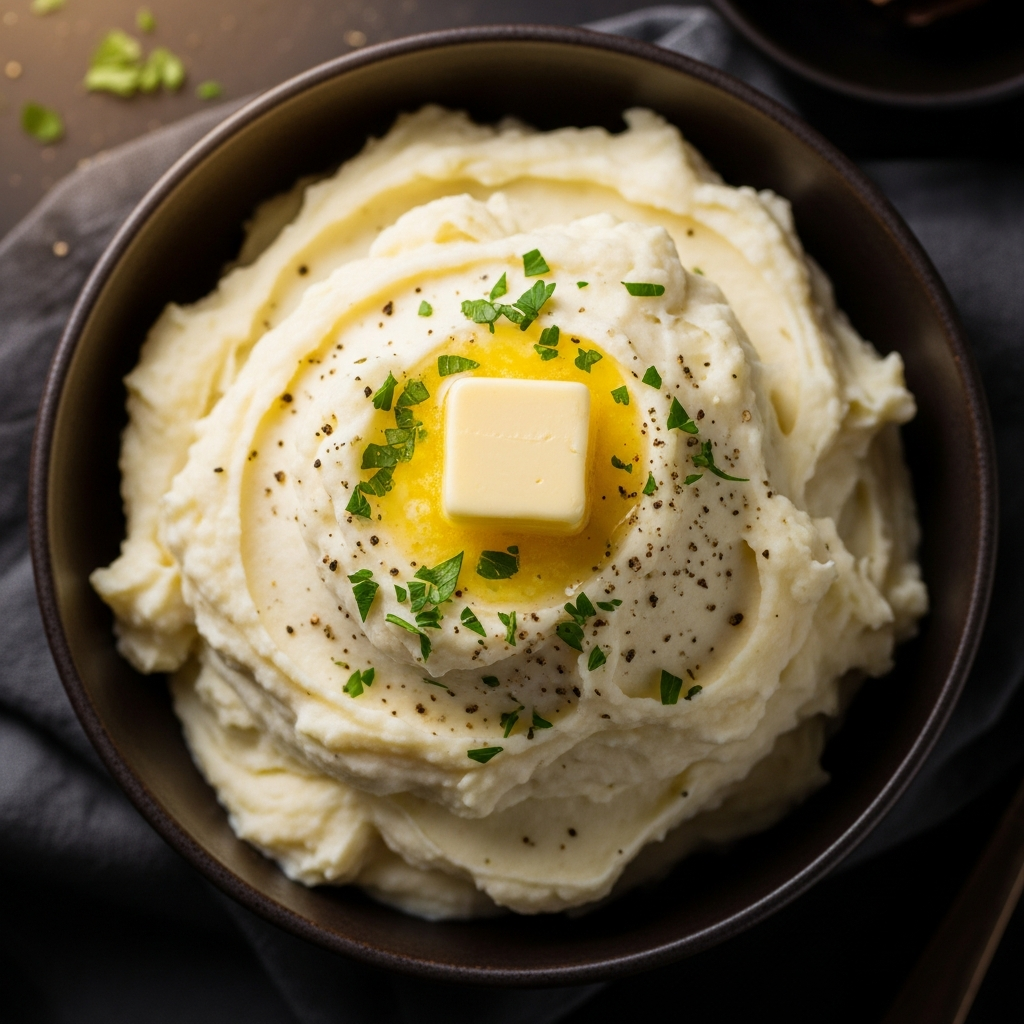
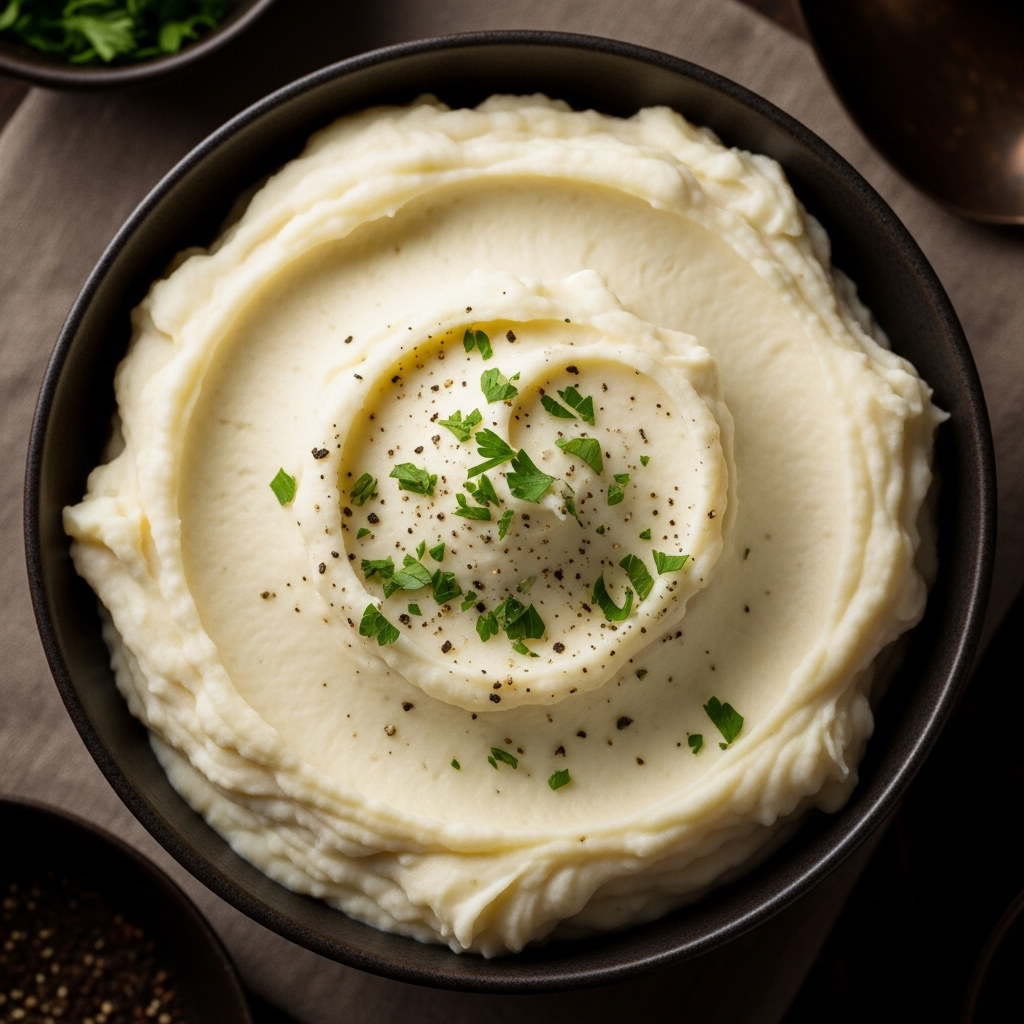
Update mashed potato description to remove butter
Update index.html to change the description for "Картофельное пюре со сливочным маслом" from "Воздушное картофельное пюре с тающим сливочным маслом." to "Воздушное картофельное пюре.".

Replit-Commit-Author: Agent
Replit-Commit-Session-Id: 724faac6-c2cc-4aa8-a70e-646e7f9a0c90
Replit-Commit-Checkpoint-Type: full_checkpoint
Replit-Commit-Event-Id: f6d57cdc-db02-47c7-926d-4cafc3bbf7da
Replit-Commit-Screenshot-Url: https://storage.googleapis.com/screenshot-production-us-central1/bfe76281-0ec3-4255-88cb-185e33efadf7/724faac6-c2cc-4aa8-a70e-646e7f9a0c90/EUG8y8p
Replit-Helium-Checkpoint-Created: true

diff --git a/index.html b/index.html
@@ -656,7 +656,7 @@
   </div>
   </div>
   <h3 class="font-headline text-xl text-on-surface mb-2 font-medium">Картофельное пюре со сливочным маслом</h3>
-  <p class="text-on-surface-variant text-xs mb-6 leading-relaxed">Воздушное картофельное пюре с тающим сливочным маслом.</p>
+  <p class="text-on-surface-variant text-xs mb-6 leading-relaxed">Воздушное картофельное пюре.</p>
   <button class="w-full bg-surface-container-low text-primary py-3 rounded-lg font-bold flex items-center justify-center gap-2 hover:bg-primary hover:text-white transition-all text-xs">
   <span class="material-symbols-outlined text-lg">add_circle</span>
                               Добавить в заказ
